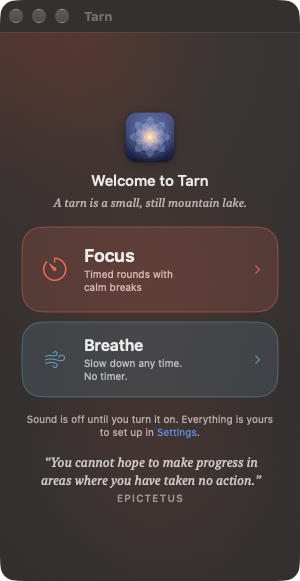
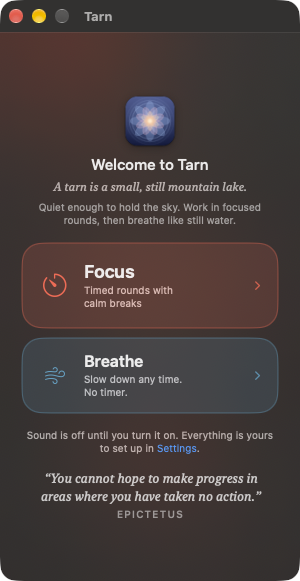
Welcome explains the name: a still mountain lake, quiet enough to hold the sky

diff --git a/Sources/ContentView.swift b/Sources/ContentView.swift
@@ -127,7 +127,7 @@ struct ContentView: View {
         }
         .padding(16)
         .frame(width: 300)
-        .frame(minHeight: welcomed ? 0 : 470)   // the welcome card needs room to show all of its text
+        .frame(minHeight: welcomed ? 0 : 500)   // the welcome card needs room to show all of its text
         .background(GeometryReader { g in Color.clear.preference(key: ContentHeightKey.self, value: g.size.height) })
         .background(PopoverVisibilityReader(active: $popoverActive))
         .environment(\.popoverActive, popoverActive)
@@ -200,6 +200,12 @@ struct Welcome: View {
                 Text("A tarn is a small, still mountain lake.")
                     .font(.system(.callout, design: .serif).italic())
                     .foregroundStyle(.secondary)
+                Text("Quiet enough to hold the sky. Work in focused rounds, then breathe like still water.")
+                    .font(.caption)
+                    .foregroundStyle(Color.primary.opacity(0.6))
+                    .multilineTextAlignment(.center)
+                    .fixedSize(horizontal: false, vertical: true)
+                    .padding(.horizontal, 8)
             }
 
             // Two worlds, two clear choices. Focus is first and a little larger, because it is the main idea.
@@ -569,7 +575,7 @@ struct SettingsTab: View {
                 VStack(alignment: .leading, spacing: 6) {
                     Text("Tarn \(Bundle.main.object(forInfoDictionaryKey: "CFBundleShortVersionString") as? String ?? "")")
                         .font(.callout.weight(.medium))
-                    Text("A tarn is a small, still mountain lake. Tarn is a calm place to focus, and to breathe.")
+                    Text("A tarn is a small, still mountain lake, quiet enough to hold the sky. Tarn is a calm place to focus, and to breathe.")
                         .font(.caption).foregroundStyle(.secondary).fixedSize(horizontal: false, vertical: true)
                     Text("Free and open source, made by Antelis Labs. No account and no tracking. The recorded sounds are public domain (CC0) from BigSoundBank.")
                         .font(.caption).foregroundStyle(.secondary).fixedSize(horizontal: false, vertical: true)

diff --git a/README.md b/README.md
@@ -1,6 +1,6 @@
 # Tarn
 
-A tarn is a small, still mountain lake. Tarn is a calm Mac menu bar app for focus and for breathing.
+A tarn is a small, still mountain lake, quiet enough to hold the sky. Tarn is a calm Mac menu bar app for focus and for breathing: work in focused rounds, then breathe like still water.
 
 ![Tarn: focus, a breathing break, breathe and sounds](docs/images/hero.png)
 
